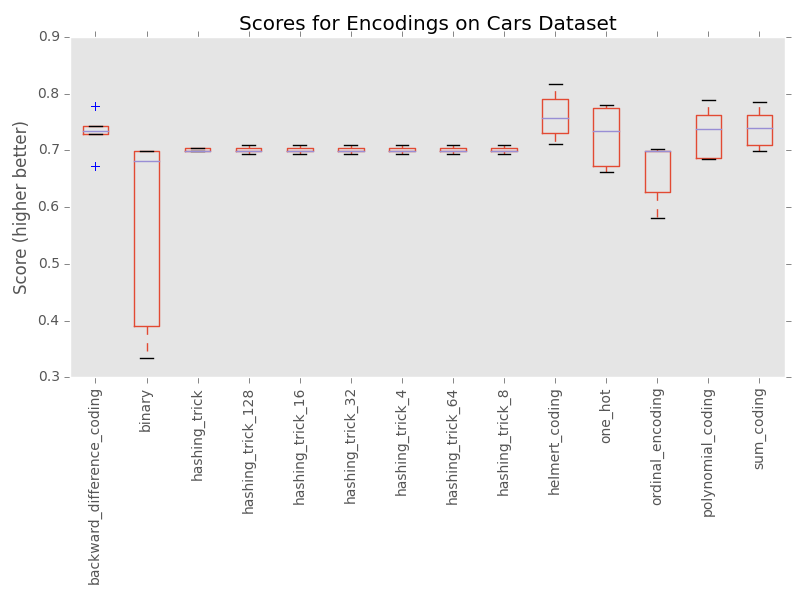
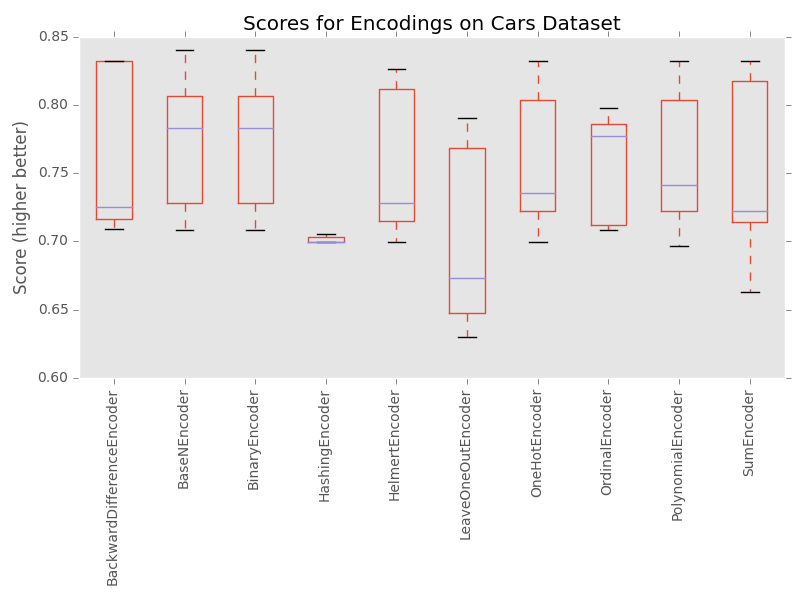
Added LeaveOneOut encoder to figure, docs, and examples.

diff --git a/examples/encoding_examples.py b/examples/encoding_examples.py
@@ -28,7 +28,7 @@ def score_models(clf, X, y, encoder, runs=1):
 
     X_test = None
     for _ in range(runs):
-        X_test = encoder().fit_transform(X)
+        X_test = encoder().fit_transform(X, y)
         scores.append(cross_validation.cross_val_score(clf, X_test, y, n_jobs=1, cv=5))
         gc.collect()
 
@@ -77,11 +77,11 @@ def main(loader, name):
     return results, raw
 
 if __name__ == '__main__':
-    out, raw = main(get_mushroom_data, 'Mushroom')
-    print(out.sort_values(by=['Dataset', 'Avg. Score']))
+    # out, raw = main(get_mushroom_data, 'Mushroom')
+    # print(out.sort_values(by=['Dataset', 'Avg. Score']))
 
     out, raw = main(get_cars_data, 'Cars')
     print(out.sort_values(by=['Dataset', 'Avg. Score']))
-
-    out, raw = main(get_splice_data, 'Splice')
-    print(out.sort_values(by=['Dataset', 'Avg. Score']))
+    #
+    # out, raw = main(get_splice_data, 'Splice')
+    # print(out.sort_values(by=['Dataset', 'Avg. Score']))

diff --git a/examples/benchmarking/benchmarking.py b/examples/benchmarking/benchmarking.py
@@ -18,6 +18,17 @@ def hashing():
 
 
 @profile(precision=4)
+def leaveoneout():
+    X, _, _ = get_mushroom_data()
+    print(X.info())
+    enc = ce.LeaveOneOutEncoder()
+    enc.fit(X, None)
+    out = enc.transform(X)
+    print(out.info())
+    del enc, _, X, out
+
+
+@profile(precision=4)
 def onehot():
     X, _, _ = get_mushroom_data()
     print(X.info())
@@ -101,5 +112,5 @@ def control():
 
 if __name__ == '__main__':
     gc.collect()
-    onehot()
+    leaveoneout()
     gc.collect()

diff --git a/docs/source/leaveoneout.rst b/docs/source/leaveoneout.rst
@@ -1,0 +1,5 @@
+Leave One Out
+=============
+
+.. autoclass:: category_encoders.leave_one_out.LeaveOneOutEncoder
+    :members:

diff --git a/docs/source/index.rst b/docs/source/index.rst
@@ -78,6 +78,7 @@ Contents:
    polynomial
    sum
    basen
+   leaveoneout
 
 
 Indices and tables
